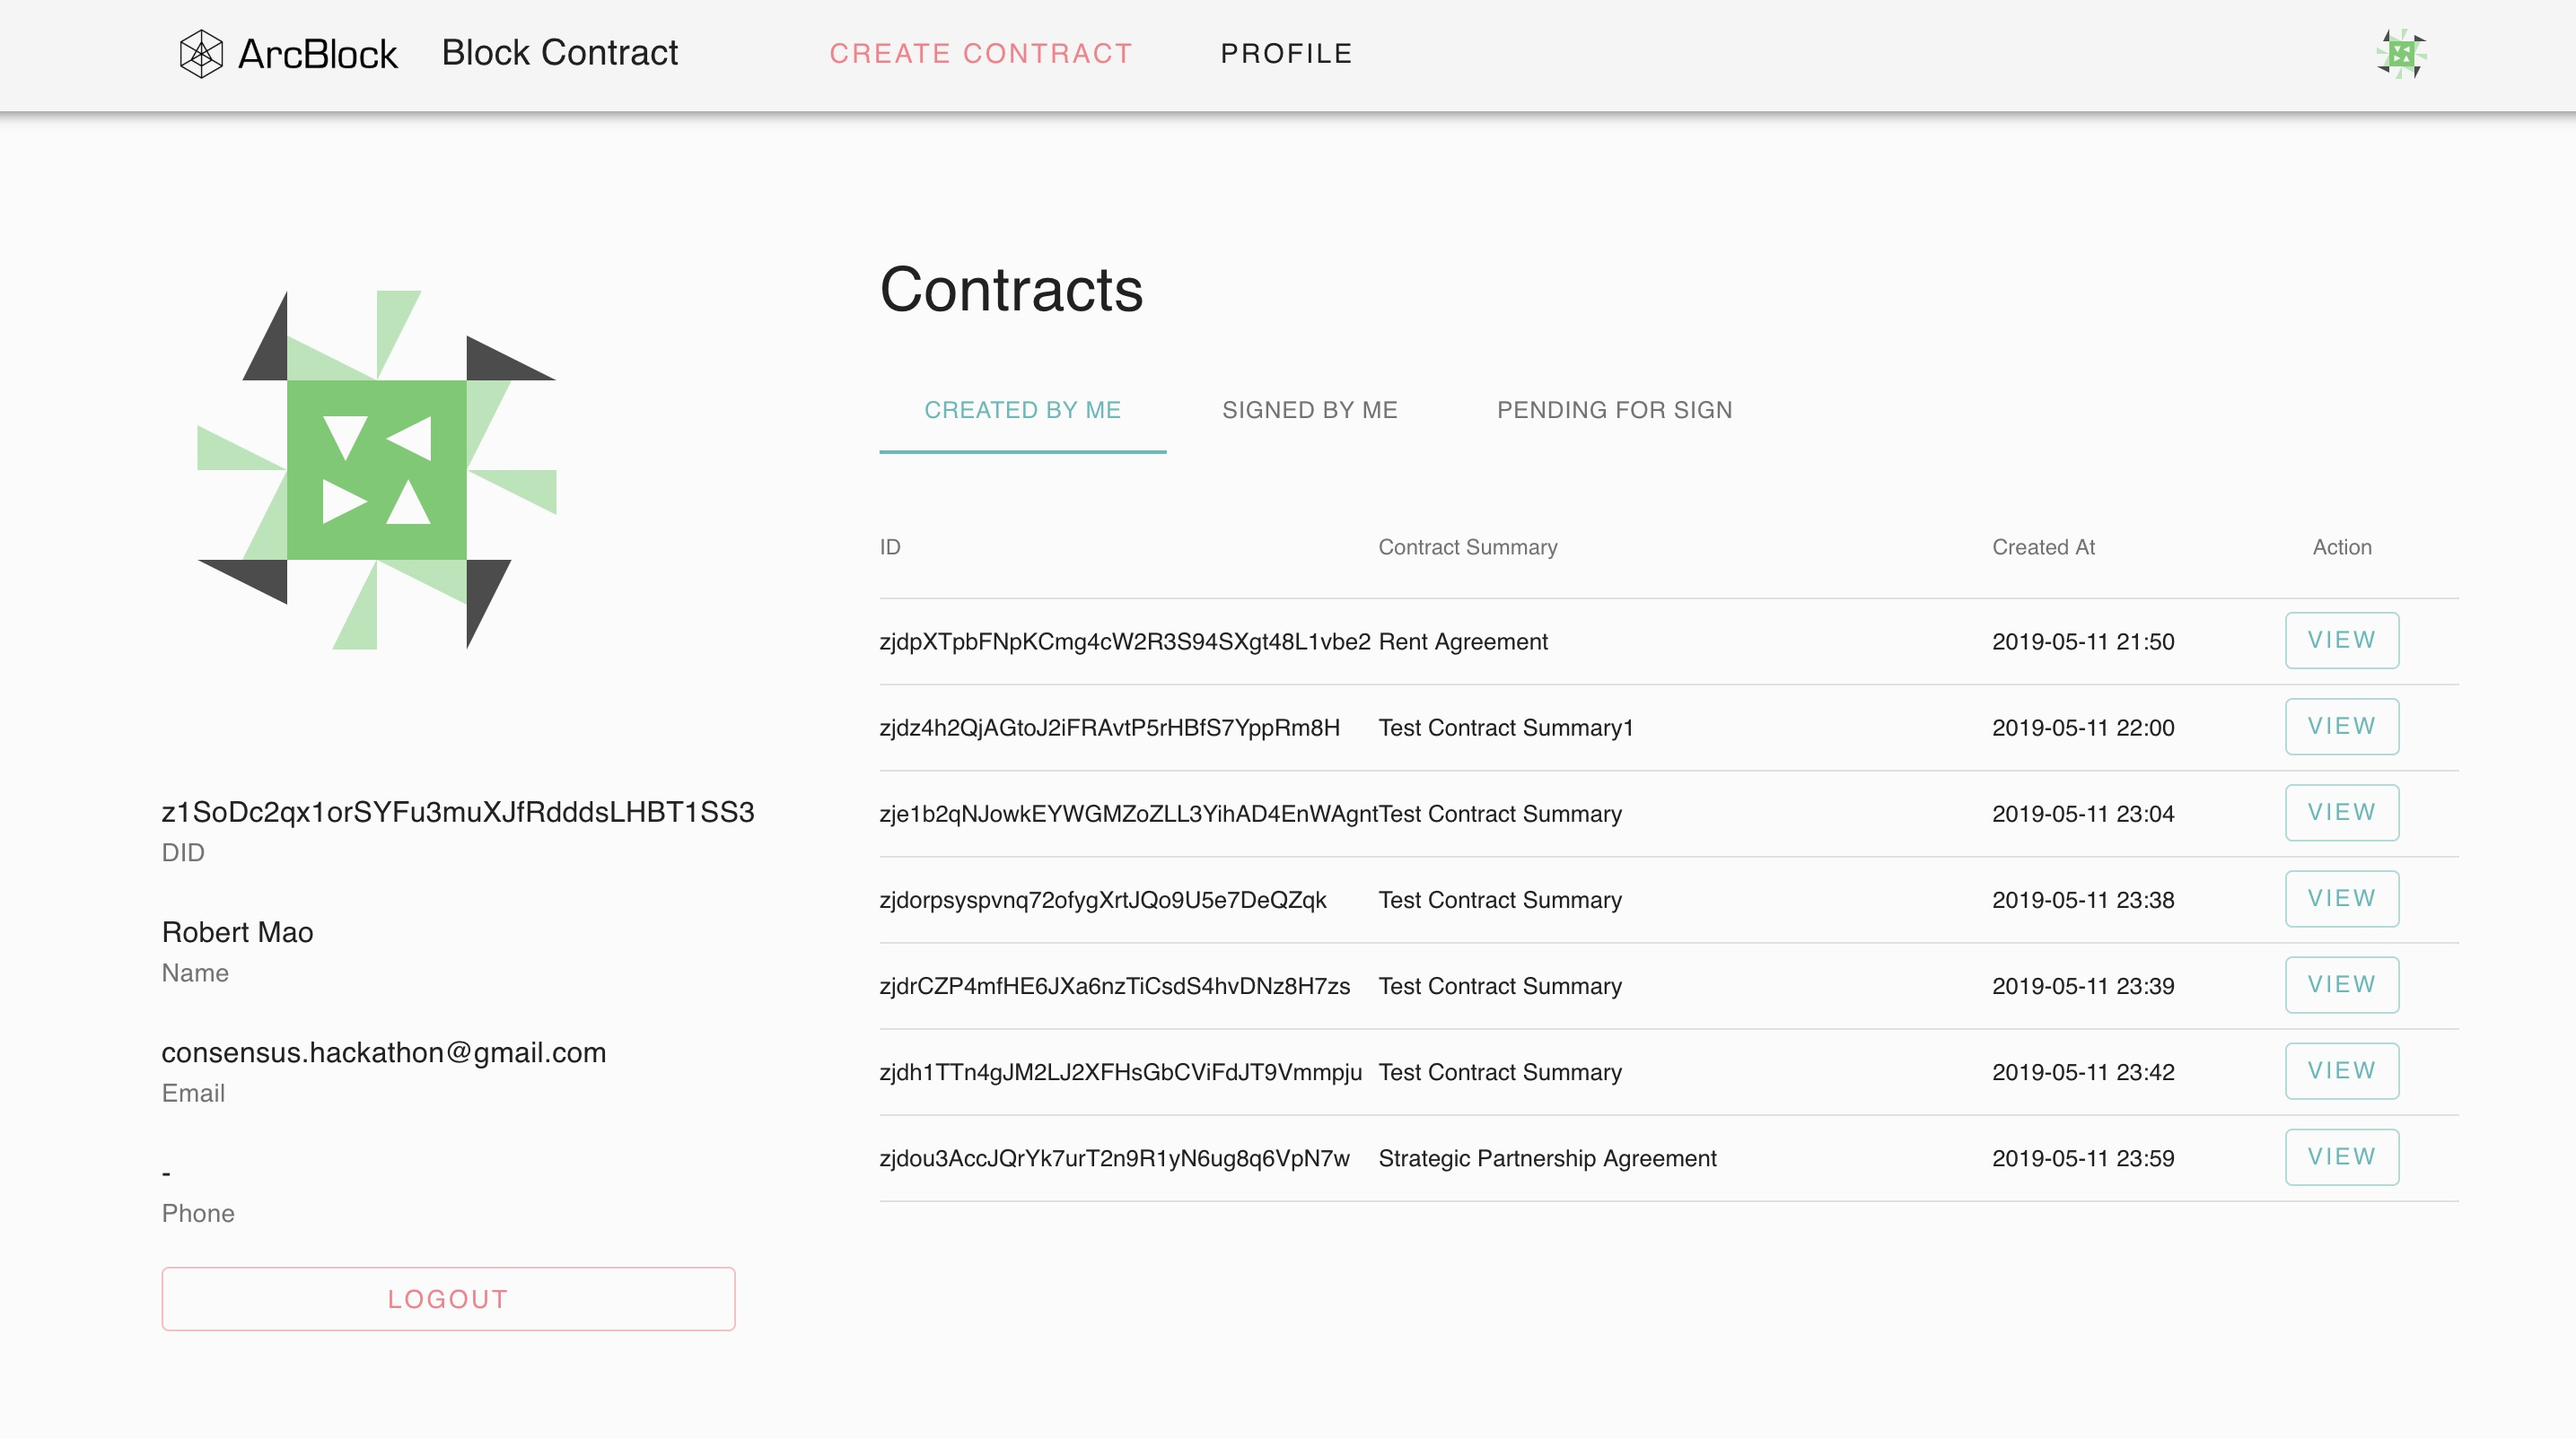
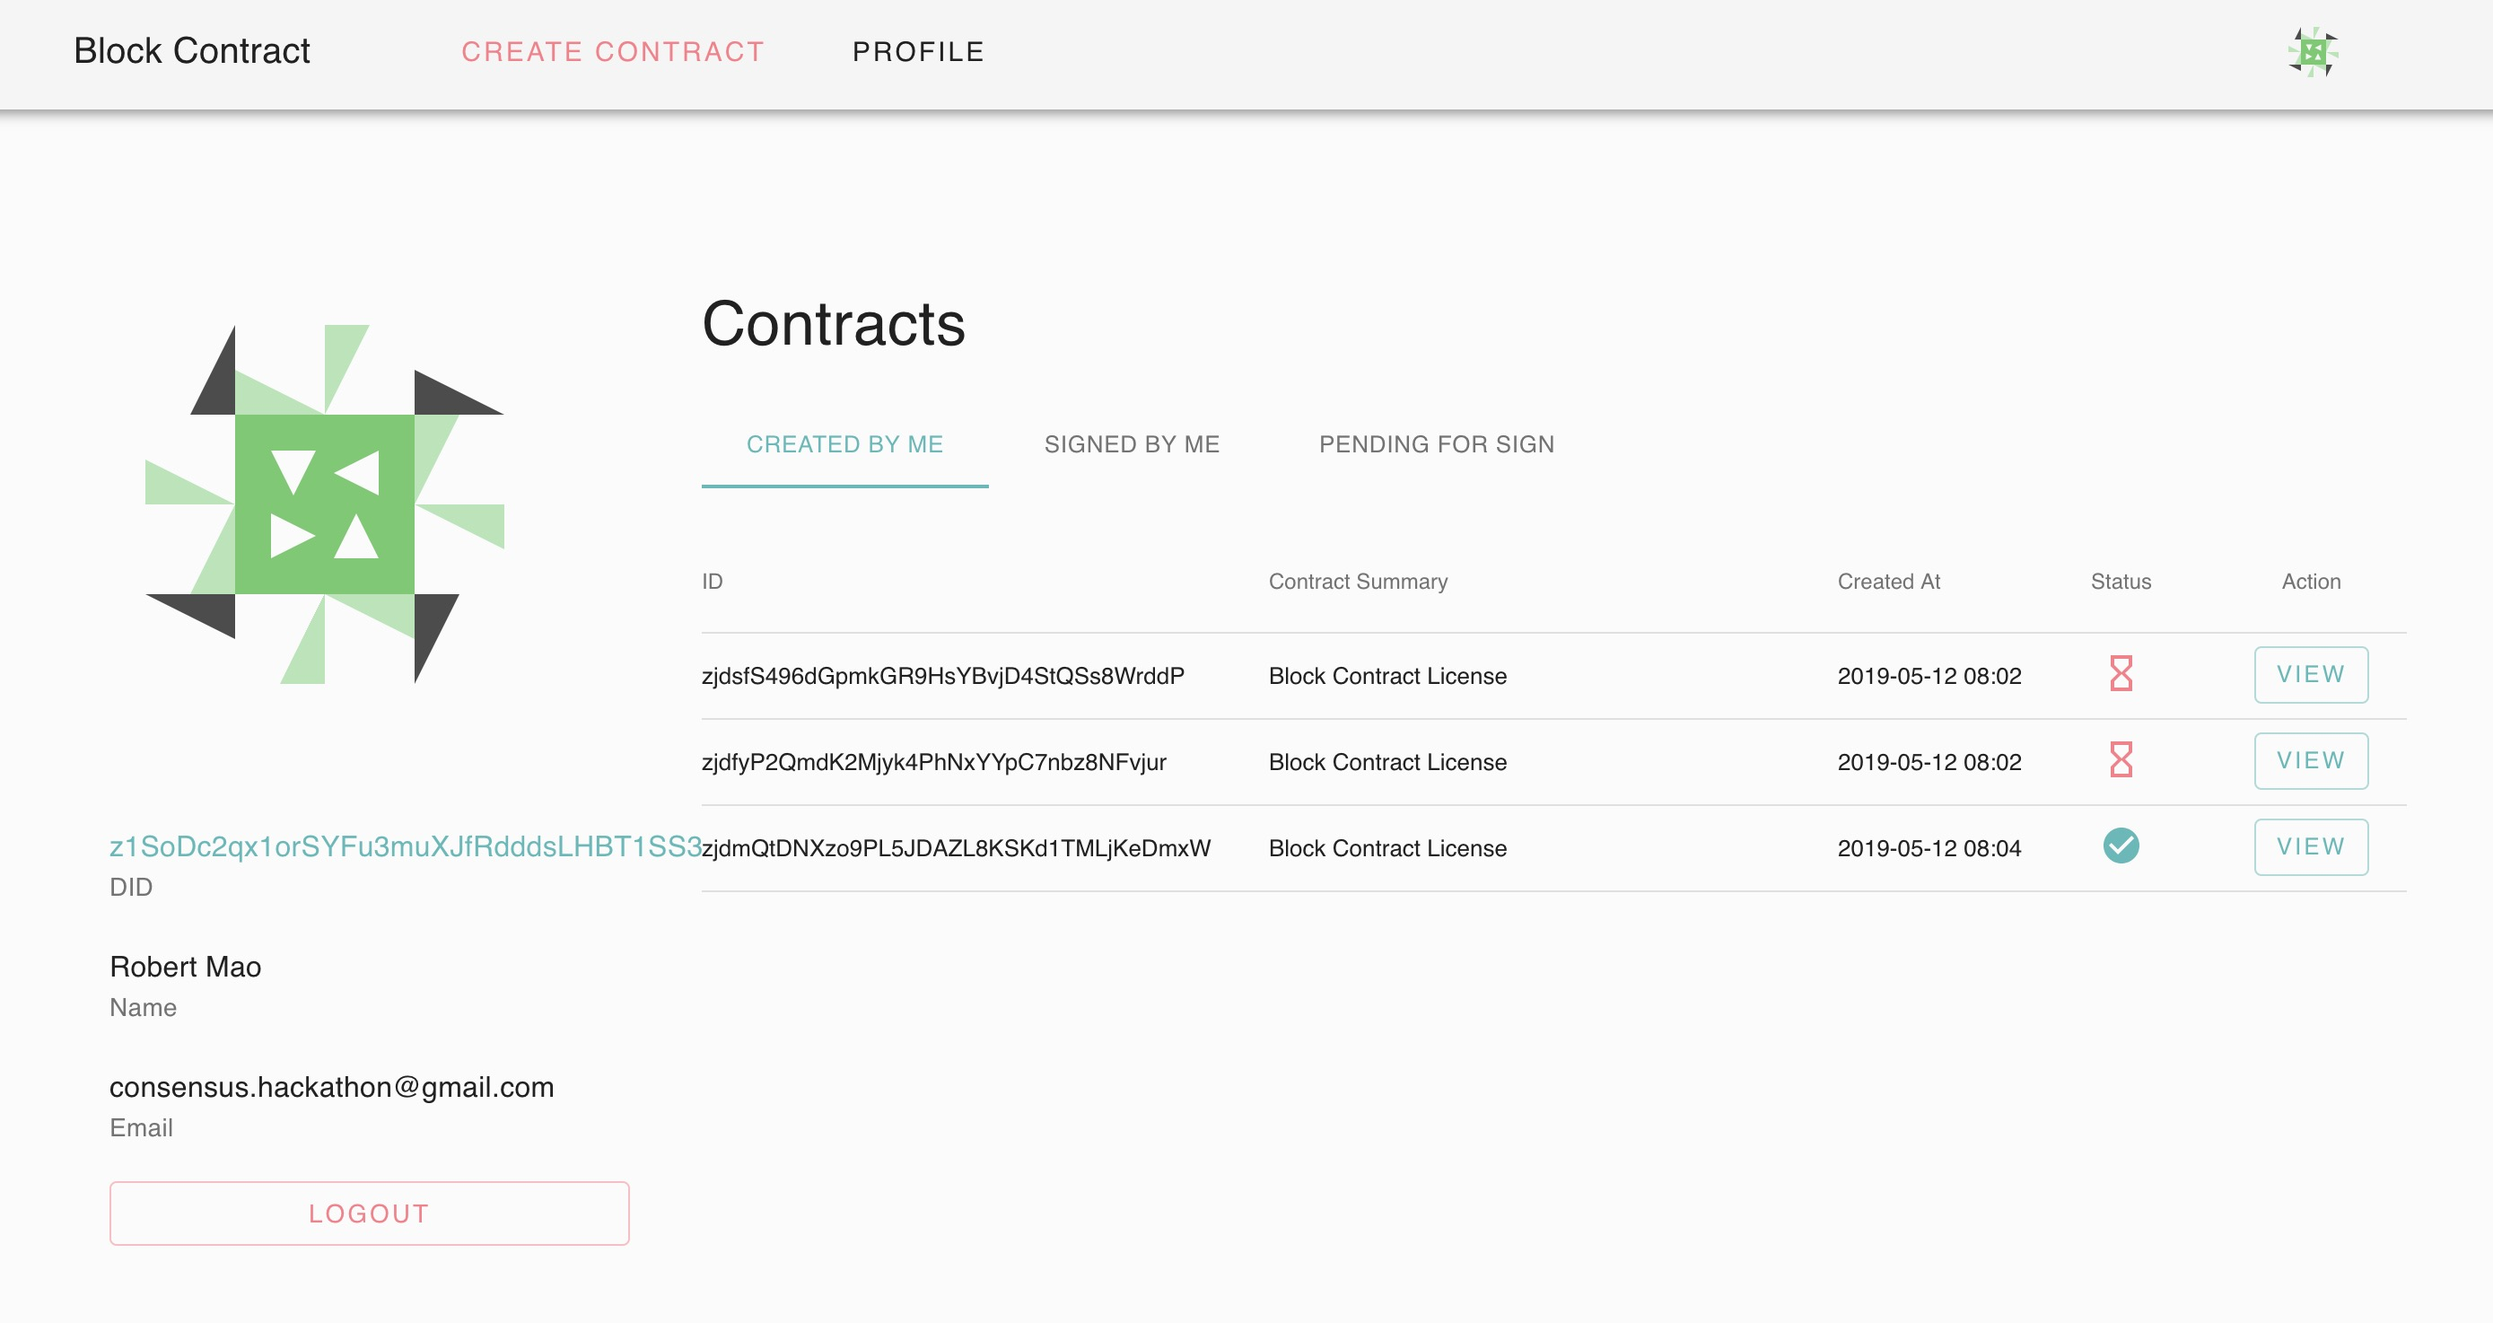
update look and feel

diff --git a/client/pages/index.js b/client/pages/index.js
@@ -2,161 +2,67 @@ import React from 'react';
 import styled from 'styled-components';
 
 import Typography from '@material-ui/core/Typography';
-import Card from '@material-ui/core/Card';
-import CardActions from '@material-ui/core/CardActions';
-import CardContent from '@material-ui/core/CardContent';
+import Grid from '@material-ui/core/Grid';
 import Button from '@material-ui/core/Button';
 
 import Layout from '../components/layout';
-
-const graphqlDemos = [
-  {
-    title: 'Application State',
-    subtitle: 'Example 1',
-    description: 'Use GraphQLClient to get current application state on chain',
-    link: '/application',
-  },
-  {
-    title: 'Chain State',
-    subtitle: 'Example 2',
-    description: 'Use GraphQLClient to read current chain info and display it as json',
-    link: '/chain',
-  },
-  {
-    title: 'Block and Transactions',
-    subtitle: 'Example 3',
-    description: 'Query blocks and transactions from the forge powered chain',
-    link: '/blocks',
-  },
-];
-
-const walletDemos = [
-  {
-    title: 'Login',
-    subtitle: 'Example 1',
-    description:
-      'Use ABT Wallet to login to an application built on top of a forge powered blockchain, and persist user info in the session',
-    link: '/profile',
-  },
-  {
-    title: 'Checkin',
-    subtitle: 'Example 2',
-    description: 'Help user to get some free tokens on the blockchain to test our application',
-    link: '/profile',
-  },
-  {
-    title: 'Payment',
-    subtitle: 'Example 3',
-    description: 'Allow user to pay for an secret document with crypto token, and records payment info in database.',
-    link: '/payment',
-  },
-];
-
-const renderExampleCard = x => (
-  <Card key={x.title} className="demo">
-    <CardContent>
-      <Typography color="textSecondary" gutterBottom>
-        {x.subtitle}
-      </Typography>
-      <Typography component="h2" variant="h5" gutterBottom>
-        {x.title}
-      </Typography>
-      <Typography component="p" variant="subtitle1" gutterBottom>
-        {x.description}
-      </Typography>
-    </CardContent>
-    <CardActions>
-      <Button component="a" href={x.link} size="small" color="primary">
-        Try Now
-      </Button>
-    </CardActions>
-  </Card>
-);
 
 export default function IndexPage() {
   return (
     <Layout title="Home">
       <Main>
-        <Typography component="h2" variant="h4" className="page-header" color="textPrimary">
-          dApps the Easy Way!
-        </Typography>
-        <Typography component="p" variant="h6" className="page-description" color="textSecondary">
-          Application boilerplate built on top of{' '}
-          <a href="https://www.arcblock.io/en/forge-sdk">forge (Ruby on Rails for Blockchain Space)</a> powered
-          blockchain, with developer friendly{' '}
-          <a href="https://docs.arcblock.io/forge/latest/sdk/javascript.html">javascript sdk</a>. Makes it super easy to
-          start building distributed applications with tons of thousands of react/javascript libraries/components.
-        </Typography>
-        <section className="section">
-          <Typography component="h3" variant="h5" className="section__header" color="textPrimary" gutterBottom>
-            Quick Start
-          </Typography>
-          <div className="section__body quickstart">
-            <code>
-              <pre>
-                npm install -g @arcblock/forge-cli
-                <br />
-                forge init
-                <br />
-                forge start
-                <br />
-                forge create-project hello-forge
-                <br />
-                cd hello-forge
-                <br />
-                yarn start
-              </pre>
-            </code>
+        <div className="hero-unit">
+          <div className="hero-content">
+            <Typography component="h1" variant="h2" align="center" color="textPrimary" gutterBottom>
+              Block Contract
+            </Typography>
+            <Typography variant="h6" align="center" color="textSecondary" paragraph>
+              Block contract is to build decentralized contract that people can sign, view and trust. To protect the
+              privacy, the content of the contract will NOT be hosted in the blockchain, only the hash of the content is
+              store in the chain.
+            </Typography>
+            <div className="hero-buttons">
+              <Grid container spacing={16} justify="center">
+                <Grid item>
+                  <Button
+                    href="/contracts/create"
+                    size="large"
+                    variant="contained"
+                    color="primary"
+                    style={{ color: 'white' }}>
+                    Create Contract on Blockchain
+                  </Button>
+                </Grid>
+              </Grid>
+            </div>
           </div>
-        </section>
-        <section className="section">
-          <Typography component="h3" variant="h5" className="section__header" color="textPrimary" gutterBottom>
-            Chain Data Reading/Displaying Examples
-          </Typography>
-          <div className="section__body demos">{graphqlDemos.map(x => renderExampleCard(x))}</div>
-        </section>
-        <section className="section">
-          <Typography component="h3" variant="h5" className="section__header" color="textPrimary" gutterBottom>
-            ABT Wallet Examples
-          </Typography>
-          <div className="section__body demos">{walletDemos.map(x => renderExampleCard(x))}</div>
-        </section>
+        </div>
       </Main>
     </Layout>
   );
 }
 
 const Main = styled.main`
-  margin: 80px 0 0;
+  margin: 0;
+  height: 100vh;
 
-  a {
-    color: ${props => props.theme.colors.green};
-    text-decoration: none;
-  }
-
-  .page-header {
-    margin-bottom: 20px;
-  }
-
-  .page-description {
-    margin-bottom: 30px;
-  }
-
-  .section {
-    margin-bottom: 50px;
-    .section__header {
-      margin-bottom: 20px;
-    }
-  }
-
-  .demos {
+  .hero-unit {
     display: flex;
-    justify-content: space-between;
-    align-items: center;
+    justify-content: center;
+    background-image: url('/static/images/hero.jpg');
+    background-position: center center;
+    background-size: cover;
+    height: 100%;
+  }
 
-    .demo {
-      width: 30%;
-      height: 240px;
-    }
+  .hero-content {
+    max-width: 600px;
+    margin: 0 auto;
+    margin-top: 80px;
+    padding: ${props => props.theme.spacing.unit * 8}px 0 ${props => props.theme.spacing.unit * 6}px;
+  }
+
+  .hero-buttons {
+    margin-top: ${props => props.theme.spacing.unit * 4}px;
   }
 `;

diff --git a/client/components/layout.js b/client/components/layout.js
@@ -6,7 +6,6 @@ import Helmet from 'react-helmet';
 
 import Wrapper from './wrapper';
 import Header from './header';
-import Footer from './footer';
 
 export default function Layout({ title, children, contentOnly }) {
   if (contentOnly) {
@@ -22,9 +21,6 @@ export default function Layout({ title, children, contentOnly }) {
         </Wrapper>
       </AppBar>
       <Wrapper style={{ minHeight: '60vh' }}>{children}</Wrapper>
-      <Wrapper>
-        <Footer />
-      </Wrapper>
     </Container>
   );
 }

diff --git a/app.js b/app.js
@@ -59,6 +59,6 @@ app.prepare().then(() => {
   const port = parseInt(process.env.PORT, 10) || parseInt(process.env.APP_PORT, 10) || 3000;
   server.listen(port, err => {
     if (err) throw err;
-    console.log(`> ${name} v${version} ready on http://localhost:${port}`);
+    console.log(`> ${name} v${version} ready on ${process.env.BASE_URL}`);
   });
 });

diff --git a/client/components/header.js b/client/components/header.js
@@ -48,7 +48,6 @@ export default function Header() {
       <div className="nav-left">
         <Link href="/">
           <Typography variant="h6" color="inherit" noWrap className="brand">
-            <img className="logo" src="/static/images/logo.png" alt="arcblock" />
             {process.env.appName}
           </Typography>
         </Link>

diff --git a/client/pages/profile.js b/client/pages/profile.js
@@ -183,7 +183,6 @@ const Main = styled(Grid)`
 
   .profile {
     display: flex;
-    flex-grow: 1;
     flex-direction: column;
     justify-content: flex-start;
     align-items: flex-start;

diff --git a/README.md b/README.md
@@ -125,7 +125,11 @@ make run
 
 Pages are being added so screen shots will be gradually available:
 
-### Scan QR code to login (provided by Forge React Starter kit)
+### The new frontpage
+
+![Block contract](docs/block_contract.jpg)
+
+### Step 1: Scan QR code to login (provided by Forge React Starter kit)
 
 ![login 1](docs/login1.jpg)
 
@@ -137,6 +141,8 @@ Then you are redirect to profile page. User can see the existing contracts:
 
 ![List contracts](docs/list_contracts.jpg)
 
+### Step 2: Create a new contract
+
 You may want to create a new contract:
 
 ![Create contract](docs/create_contract.jpg)
@@ -145,10 +151,31 @@ And all the signers will go emails like this:
 
 ![Email content](docs/email.jpg)
 
-Below is created by forge-react-starter. Leave it just for your information.
+### Step 3 (for signer): Sign the contract
+
+As a signer, when you got the email, if you click the "View the Contract" button or the link, you will get:
+
+![Sign 1](docs/sign1.jpg)
+
+Then scan the QR code with the wallet app:
+
+![Sign 2](docs/sign2.jpg)
+
+Once accepted, you signature will be put into the agreement. If all parties finished signing, the doc is signed:
+
+![Signed 1](docs/signed1.jpg)
+
+### Step 4 (anyone): Verify the contract in the chain
+
+Then anyone can check the signatures on the chain:
+
+![Signed 2](docs/signed2.jpg)
+
+We could make this view much better later on.
 
 ---
 
+Below is created by forge-react-starter. Leave it just for your information.
 
 ## About Forge React Starter
 
